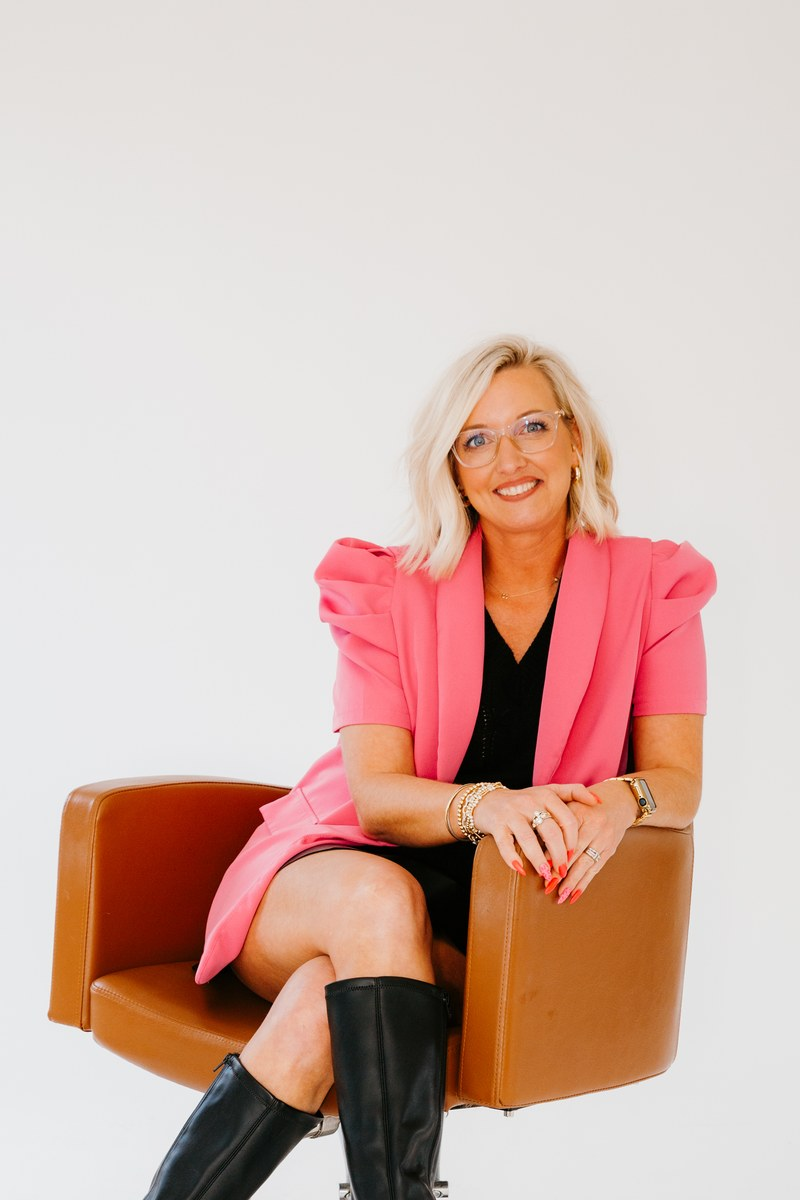
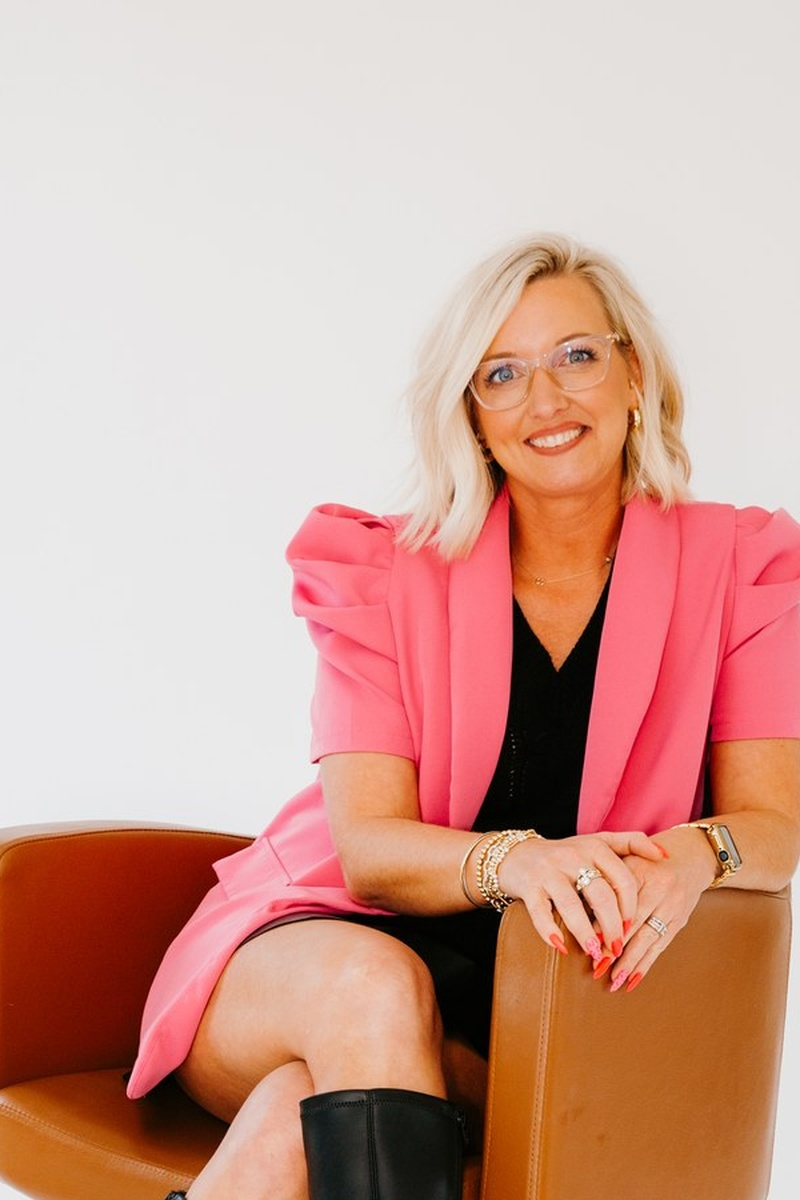
Fix Hollie head position by reframing source image
Cropped and resized hollie-skaggs.jpg to a tighter portrait composition
(600x900 crop resized to 800x1200) so her head sits in the upper portion
of the card, matching Tammy and Raghan. Removed the CSS hacks.

diff --git a/css/style.css b/css/style.css
@@ -935,14 +935,6 @@ p:last-child { margin-bottom: 0; }
   transform: scale(1.06);
   filter: saturate(1.05) brightness(1.02);
 }
-.team-card__photo img.team-card__img--hollie {
-  object-position: center 5%;
-  transform: scale(1.45);
-  transform-origin: top center;
-}
-.team-card:hover .team-card__photo img.team-card__img--hollie {
-  transform: scale(1.51);
-}
 
 .team-card__photo::after {
   content: '';

diff --git a/team.html b/team.html
@@ -123,7 +123,7 @@
 
         <div class="team-card reveal reveal--delay-2">
           <a href="team/hollie-skaggs.html" class="team-card__photo">
-            <img src="images/team/hollie-skaggs.jpg" alt="Hollie Skaggs" loading="lazy" decoding="async" width="300" height="400" class="team-card__img--hollie">
+            <img src="images/team/hollie-skaggs.jpg" alt="Hollie Skaggs" loading="lazy" decoding="async" width="300" height="400">
             <div class="team-card__hover"><span class="team-card__view">View Profile</span></div>
           </a>
           <p class="team-card__name">Hollie Skaggs</p>